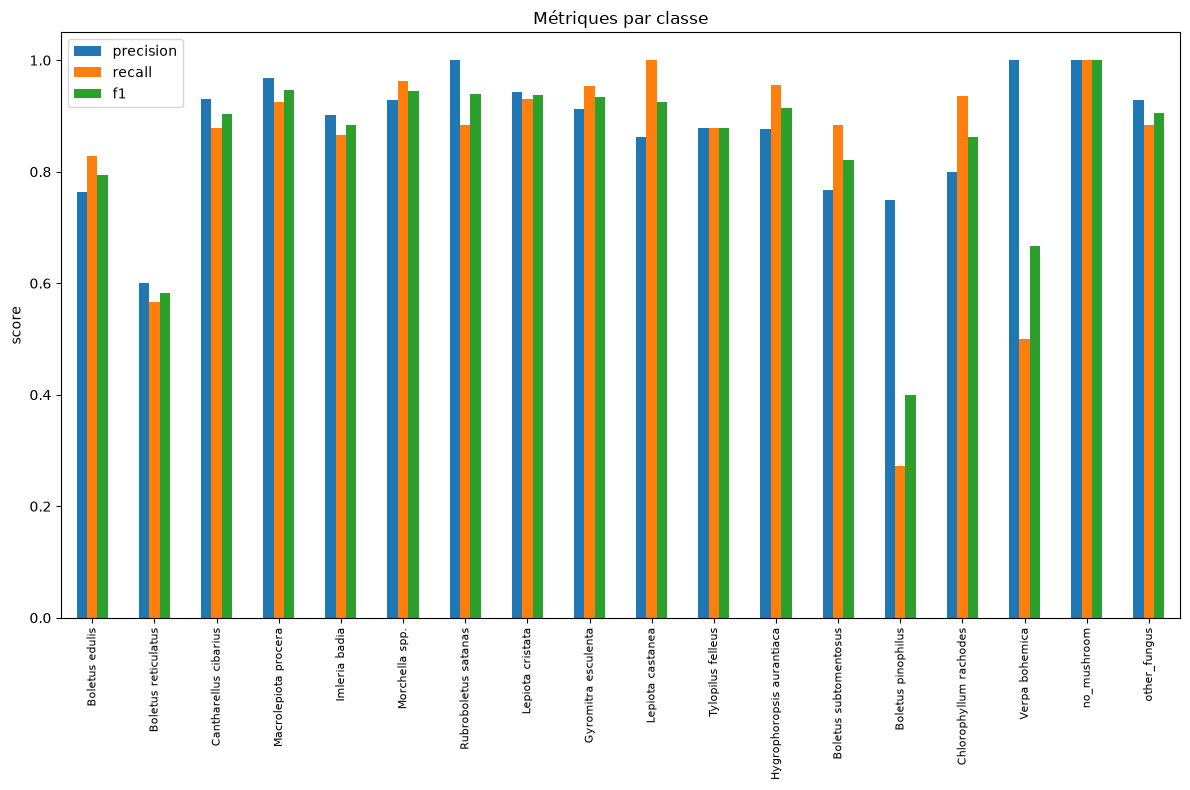
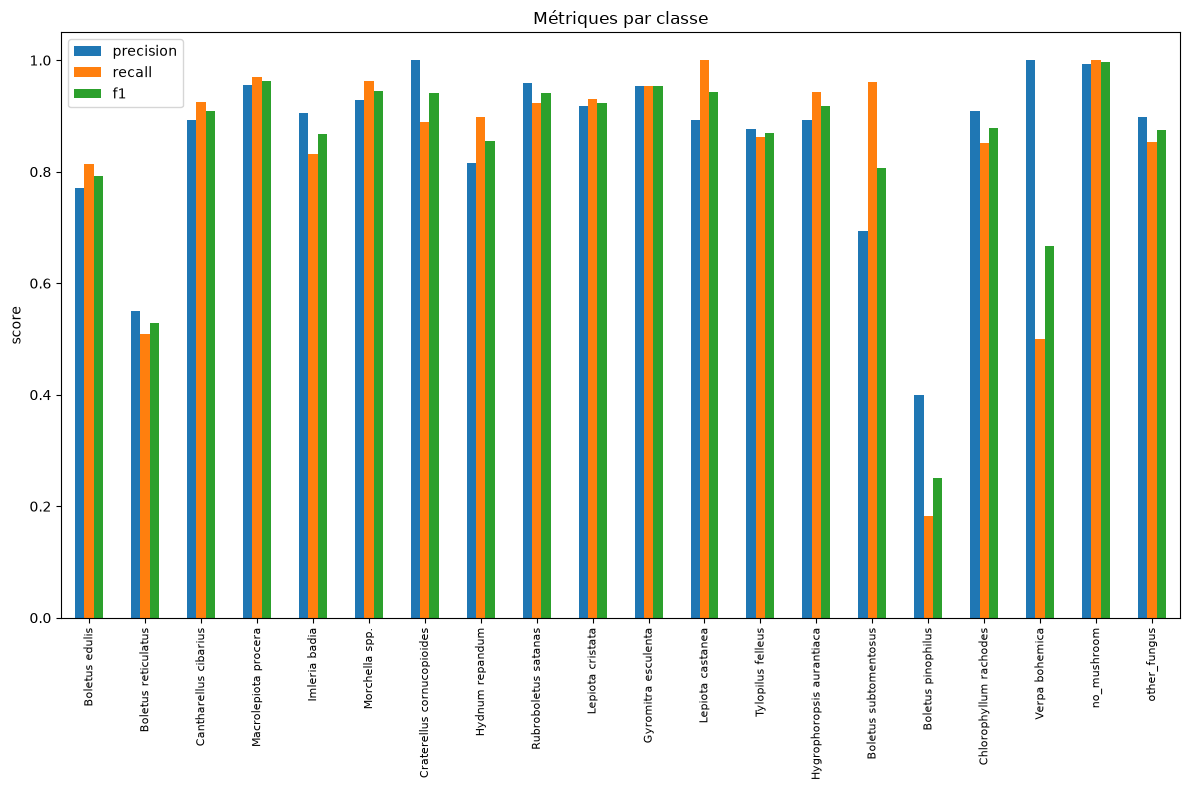
feat: ajout trompette de la mort + pied de mouton (growth + vision)      - growth : hydnum_repandum.csv, RNG par espèce figé (dict), proxies réglés,        8 modèles finaux, carte/API/frontend 8 espèces (LOOCV moy 0.760)      - vision : +2 classes DF20, retrain 20 classes (acc 0.879, F1 0.841),     

diff --git a/src/champiquest/static/index.html b/src/champiquest/static/index.html
@@ -54,6 +54,8 @@
       ["morchella", "Morille"],
       ["imleria_badia", "Bolet bai"],
       ["boletus_reticulatus", "Cèpe d'été"],
+      ["craterellus_cornucopioides", "Trompette de la mort"],
+      ["hydnum_repandum", "Pied de mouton"],
     ];
 
     const DATES = [];

diff --git a/src/champiquest/data/make_dataset.py b/src/champiquest/data/make_dataset.py
@@ -387,6 +387,31 @@ PER_SPECIES_TOPK = {
     "morchella": 0,
     "imleria_badia": 3,
     "boletus_reticulatus": 1,
+    "craterellus_cornucopioides": 3,
+    "hydnum_repandum": 5,
+}
+
+# Seeds figés des absences (arbitraires mais stables). Remplacent l'ancien
+# `enumerate(sorted(...))` qui dépendait de l'ordre des espèces : ajouter une
+# espèce décalait les seeds des autres. Valeurs 0-12 = anciennes positions triées
+# (reproduit le dataset actuel) ; 13-15 = nouvelles espèces. Ne jamais changer.
+RNG_SEEDS = {
+    "boletus_edulis": 0,
+    "boletus_pinophilus": 1,
+    "boletus_reticulatus": 2,
+    "cantharellus_amethysteus": 3,
+    "cantharellus_cibarius": 4,
+    "craterellus_cornucopioides": 5,
+    "craterellus_tubaeformis": 6,
+    "imleria_badia": 7,
+    "macrolepiota_excoriata": 8,
+    "macrolepiota_procera": 9,
+    "morchella": 10,
+    "xerocomellus_chrysenteron": 11,
+    "xerocomus_subtomentosus": 12,
+    "hydnum_repandum": 13,
+    "boletus_aereus": 14,
+    "chlorophyllum_rhacodes": 15,
 }
 
 
@@ -441,9 +466,9 @@ def main() -> None:
         sub["species"] = "proxy"
         occ = pd.concat([occ, sub[["decimalLatitude", "decimalLongitude", "year", "month", "day", "species", "taxon_key", "date", "glat", "glon"]]], ignore_index=True)
     seasons = compute_group_seasons(occ)
-    # RNG par espèce : tirages d'absences indépendants et reproductibles,
-    # quel que soit l'ordre/l'ampleur de l'augmentation par proxies.
-    rngs = {g: np.random.default_rng(i) for i, g in enumerate(sorted(occ["taxon_key"].unique()))}
+    # RNG par espèce : seed figé (RNG_SEEDS) → absences reproductibles
+    # quelle que soit la liste d'espèces (ordre / ajout).
+    rngs = {g: np.random.default_rng(RNG_SEEDS[g]) for g in occ["taxon_key"].unique()}
 
     print(f"{len(occ)} observations (dont proxies), {len(proxy_keys)} taxons proxy, {len(weather)} séries météo")
 

diff --git a/src/champiquest/models/train_final.py b/src/champiquest/models/train_final.py
@@ -7,7 +7,7 @@
   (`mlflow.lightgbm.log_model`).
 
 Usage :
-    poetry run python -m champiquest.models.train_final                    # les 6 espèces
+    poetry run python -m champiquest.models.train_final                    # les 8 espèces
     poetry run python -m champiquest.models.train_final --species boletus_edulis
 """
 
@@ -25,7 +25,7 @@ from champiquest.models.mlflow_config import setup
 REPO_ROOT = Path(__file__).resolve().parents[3]
 MODELS_DIR = REPO_ROOT / "data" / "models"
 
-# Les 6 espèces modélisées (groupes écologiques de la partie 1).
+# Les 8 espèces modélisées (groupes écologiques de la partie 1).
 SPECIES = [
     "boletus_edulis",
     "macrolepiota_procera",
@@ -33,6 +33,8 @@ SPECIES = [
     "morchella",
     "imleria_badia",
     "boletus_reticulatus",
+    "craterellus_cornucopioides",
+    "hydnum_repandum",
 ]
 
 FEATURES = PRUNED_NUM_FEATURES  # 12 features, set validé en LOOCV

diff --git a/src/champiquest/vision/predict.py b/src/champiquest/vision/predict.py
@@ -81,7 +81,7 @@ class Predictor:
                     "species": name,
                     "common_name": self.common_names.get(name, name),
                     "probability": float(probs[i]),
-                    "edible": i < len(self.classes) and self.danger.get(name) == "comestible",
+                    "edible": bool(i < len(self.classes) and self.danger.get(name) == "comestible"),
                 }
             )
 

diff --git a/src/champiquest/growth.py b/src/champiquest/growth.py
@@ -30,6 +30,8 @@ SPECIES = [
     "morchella",
     "imleria_badia",
     "boletus_reticulatus",
+    "craterellus_cornucopioides",
+    "hydnum_repandum",
 ]
 
 GROWTH_VARIABLES = [

diff --git a/reports/feature-engineering.md b/reports/feature-engineering.md
@@ -244,3 +244,57 @@ ses absences — à corriger par un RNG par espèce).
 Moyenne **0.767**. Bémols assumés : (1) le N par espèce est choisi sur les mêmes folds
 LOOCV (sélection légèrement optimiste) ; (2) les proxies sont **exclus du test** (ils ne
 servent qu'à l'entraînement — sinon ils gonflent l'AUC en tant que positifs « faciles »).
+
+---
+
+## Élagage re-validé avec proxies (post-augmentation)
+
+Le set `pruned` avait été figé **avant** l'ajout des proxies. Vérification faite *a
+posteriori* sur le dataset final (proxies inclus) — LOOCV, LightGBM A_simple :
+
+| Espèce | full | pruned | Δ (pruned − full) |
+|---|---|---|---|
+| cèpes | 0.713 | 0.717 | +0.004 |
+| lépiotes | 0.805 | 0.796 | −0.009 |
+| girolle | 0.752 | 0.744 | −0.008 |
+| morille | 0.711 | 0.694 | −0.017 |
+| bolet bai | 0.773 | 0.770 | −0.003 |
+| cèpe d'été | 0.842 | 0.846 | +0.004 |
+| **moyenne** | **0.766** | **0.761** | **−0.005** |
+
+`full` ressort en tête de **+0.005**, dans le bruit (la morille, dataset le plus petit,
+oscille à elle seule de ±0.017). Ablation par groupe de features :
+
+| config | AUC moy | Δ vs pruned |
+|---|---|---|
+| pruned (12) | 0.761 | — |
+| pruned + `clc_code` | 0.763 | +0.002 |
+| pruned + relief (alt/pente/orient.) | 0.760 | −0.001 |
+| pruned + sol (ph/clay/soc) | 0.767 | +0.006 |
+| pruned + fenêtres météo | 0.765 | +0.004 |
+| full (26) | 0.766 | +0.005 |
+
+**Conclusion** : les proxies n'ont **pas** ressuscité les features habitat — `clc_code`
+(+0.002) et le relief (−0.001) restent quasi-morts. Le petit gain de `full` vient de la
+texture du sol (ph/clay/soc, +0.006) et de fenêtres météo redondantes (+0.004), pas de
+l'occupation du sol → `pruned` conservé (parcimonie). Seule nuance écologique : le pH/argile/SOC
+est le seul groupe « habitat » avec un léger signal — cohérent (le pH compte), mais trop
+faible pour 3 features de plus au MVP.
+
+---
+
+## Perspectives : habitat / essences (non implémenté)
+
+**Limite structurante** : le modèle growth est plafonné par la **précision des coordonnées
+GBIF** (≈ 0.5–1 km). Relier une observation à « l'arbre sous lequel elle a poussé » est
+illusoire — c'est la même cause que la classe CLC majoritaire « terres arables » (champi de
+lisière géolocalisé dans le champ voisin). Plus la couche habitat est fine, plus ce bruit
+pénalise.
+
+**Piste essence** : la **BD Forêt® V2 (IGN)** — open data, nomenclature 32 essences
+(chêne, hêtre, pin, sapin, épicéa…), résolution 0,5 ha — serait le bon outil pour une
+**couche d'habitat potentiel par espèce** (cèpe → chênaies/hêtraies/pessières ; girolle →
+hêtraies-sapinières). C'est un projet de type **SDM presence-only** (MaxEnt-like), où la
+précision des coordonnées devient moins critique (agrégation à la cellule). Pas pour le MVP :
+l'ablation montre que le type de forêt (`clc_code` 311/312/313) n'apporte déjà rien au modèle
+growth (+0.002).
